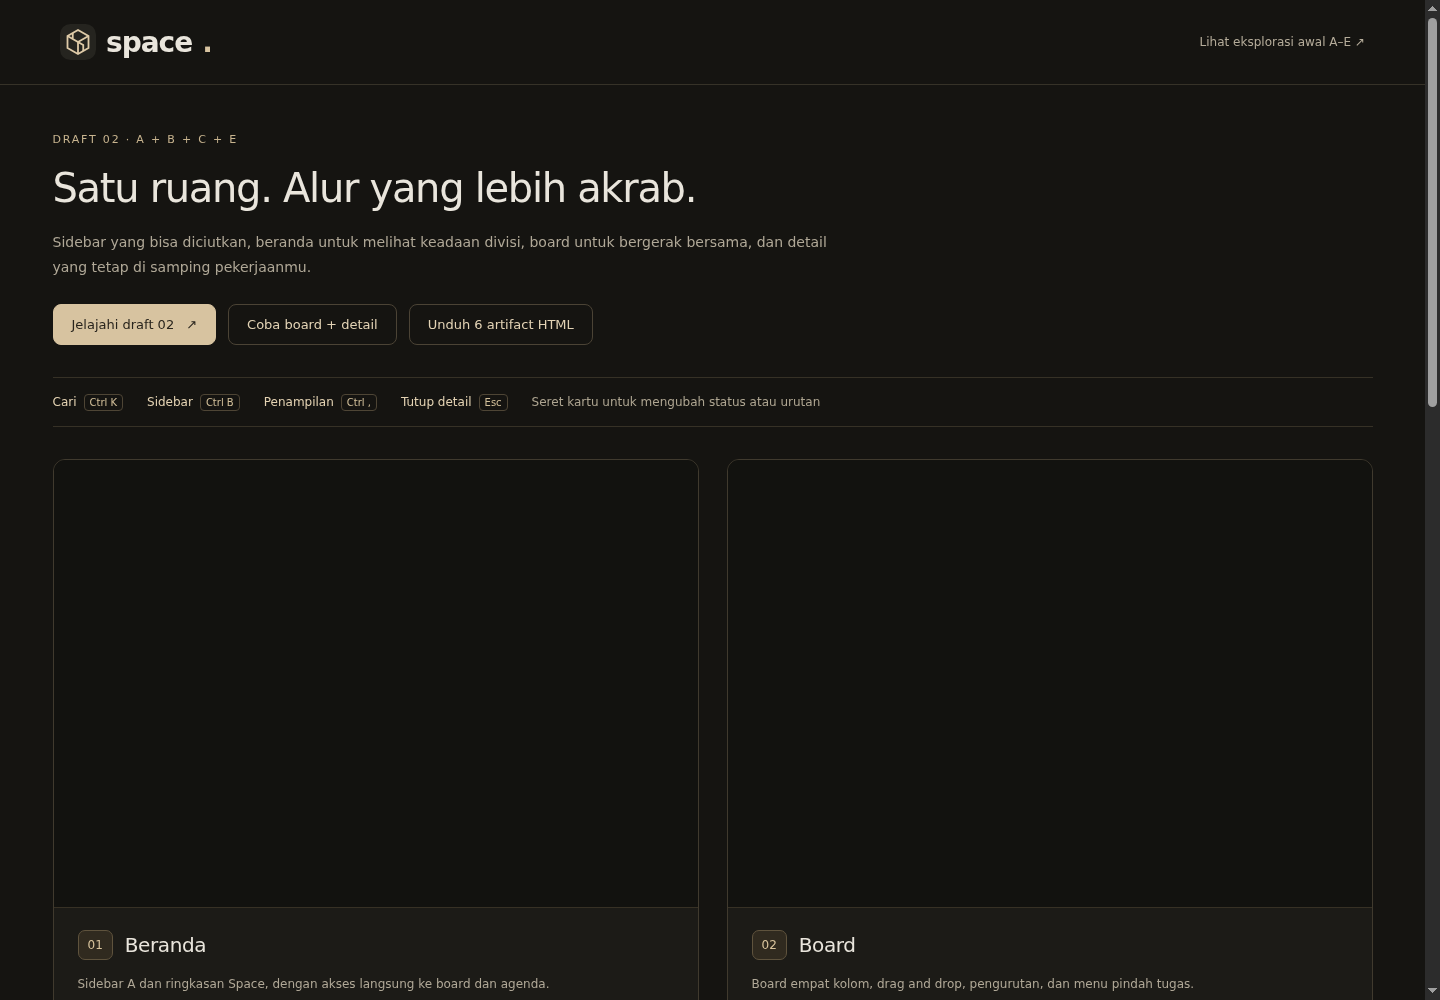
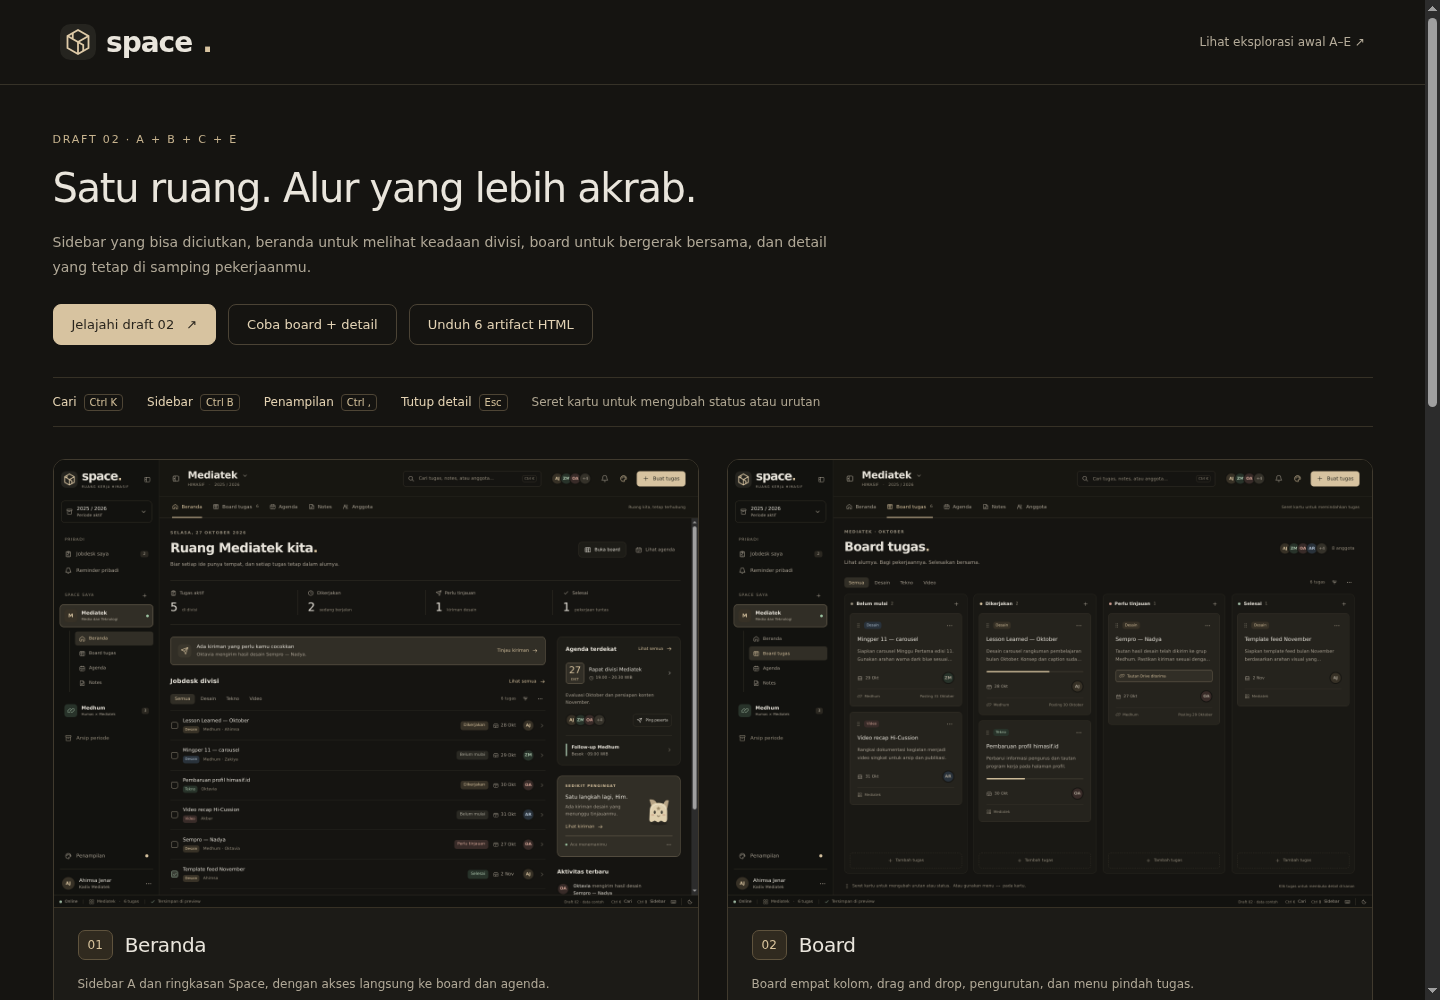
Record pending Canvas publication and capture loaded gallery thumbnails

diff --git a/prototypes/space-ui/export_refined.py b/prototypes/space-ui/export_refined.py
@@ -34,8 +34,8 @@ for n,name,view,sidebar,extras,desc in SCREENS:
  html=f'''<!doctype html><html lang="id"><head><meta charset="utf-8"><meta name="viewport" content="width=device-width,initial-scale=1"><meta name="color-scheme" content="dark light"><title>Space — Draft 02 · {name}</title><link rel="icon" href="{logo}"><style>{css}</style></head><body><div id="refined-app"></div><div id="refined-overlay"></div><div id="refined-toast" role="status" aria-live="polite"></div><script type="module">{script}</script></body></html>'''
  filename=f'Space-02-{n}-{name}.html'
  (ART/filename).write_text(html);(DOWNLOAD/filename).write_text(html)
- entries.append(dict(number=int(n),name=name,description=desc,query=params,html=filename,preview_url='http://localhost:5173/refined.html?'+urlencode(params),download_url='http://localhost:5173/downloads/refined-02/'+filename,canvas_url=f'canvas://{CANVAS}/design-{int(n)}'))
-manifest=dict(canvas_id=CANVAS,status='Disposable UI prototype; fixtures; edits reset on reload',gallery_url='http://localhost:5173/refined-gallery.html',screens=entries)
+ entries.append(dict(number=int(n),name=name,description=desc,query=params,html=filename,preview_url='http://localhost:5173/refined.html?'+urlencode(params),download_url='http://localhost:5173/downloads/refined-02/'+filename,**({'canvas_url' if '--canvas' in sys.argv else 'planned_canvas_url':f'canvas://{CANVAS}/design-{int(n)}'})))
+manifest=dict(canvas_id=CANVAS,canvas_status='published' if '--canvas' in sys.argv else 'pending_app_connection',status='Disposable UI prototype; fixtures; edits reset on reload',gallery_url='http://localhost:5173/refined-gallery.html',screens=entries)
 (ART/'manifest.json').write_text(json.dumps(manifest,ensure_ascii=False,indent=2)+'\n')
 with zipfile.ZipFile(ROOT/'frontend/downloads/Space-Draft-02.zip','w',zipfile.ZIP_DEFLATED) as bundle:
  for e in entries:bundle.write(ART/e['html'],e['html'])
